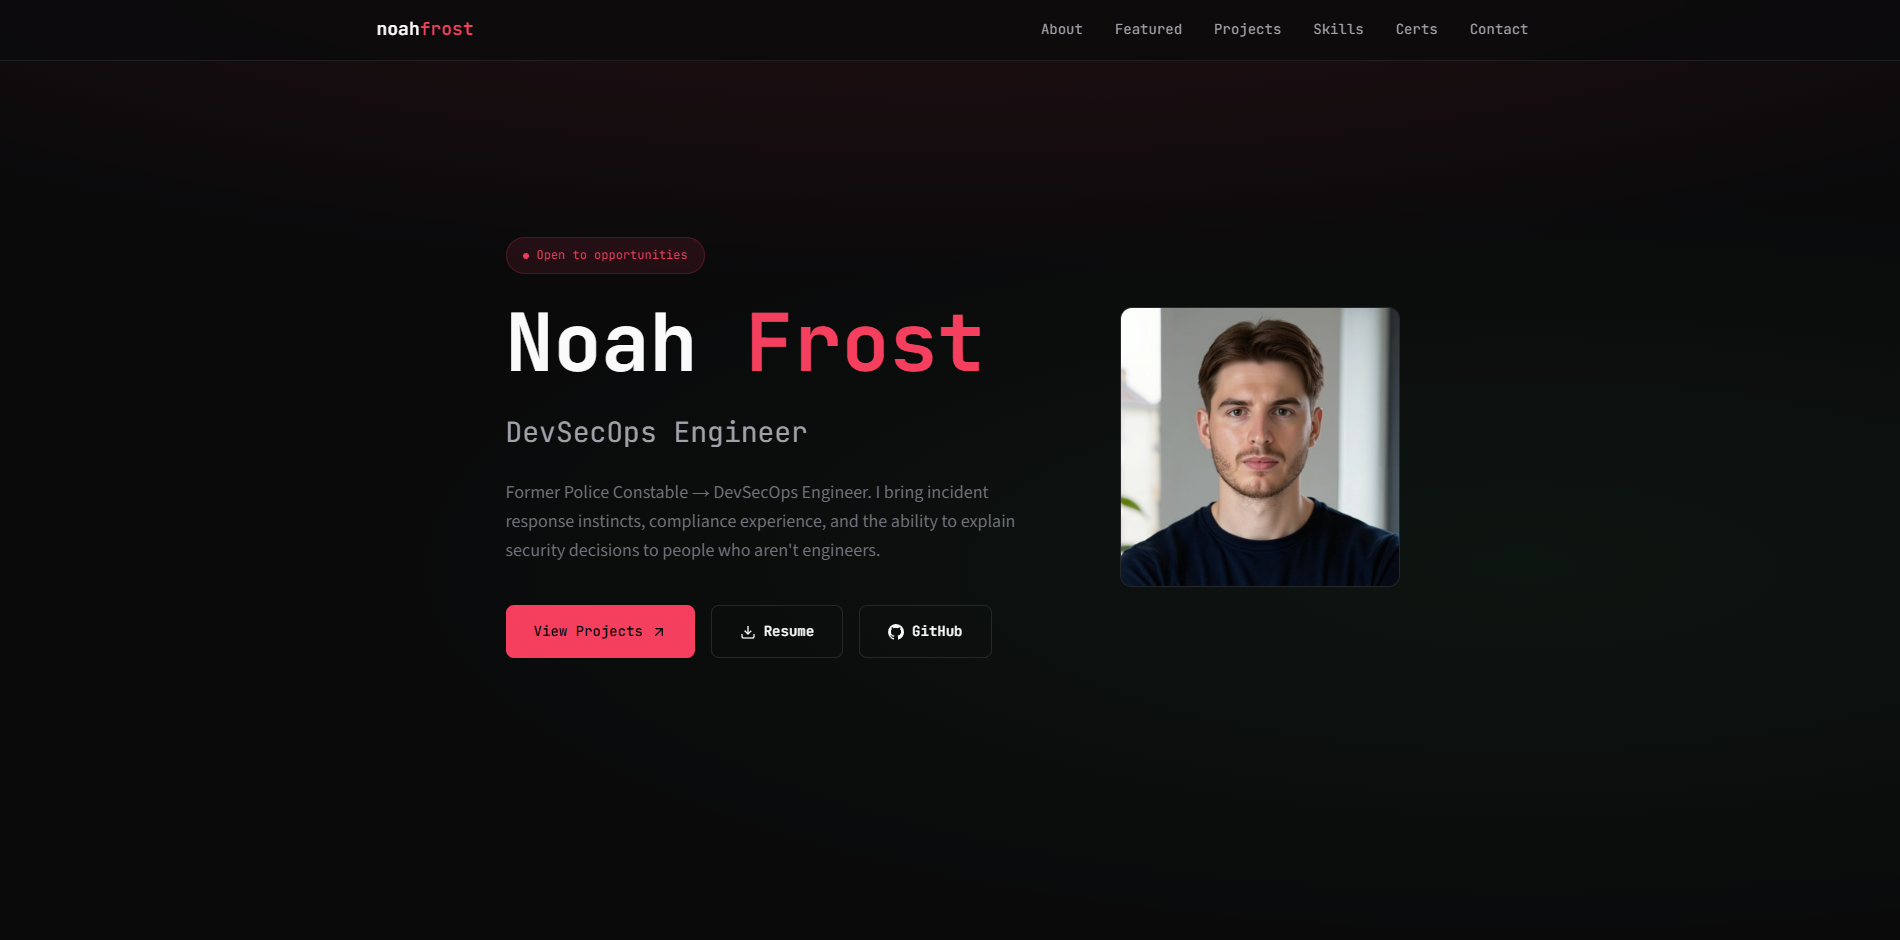
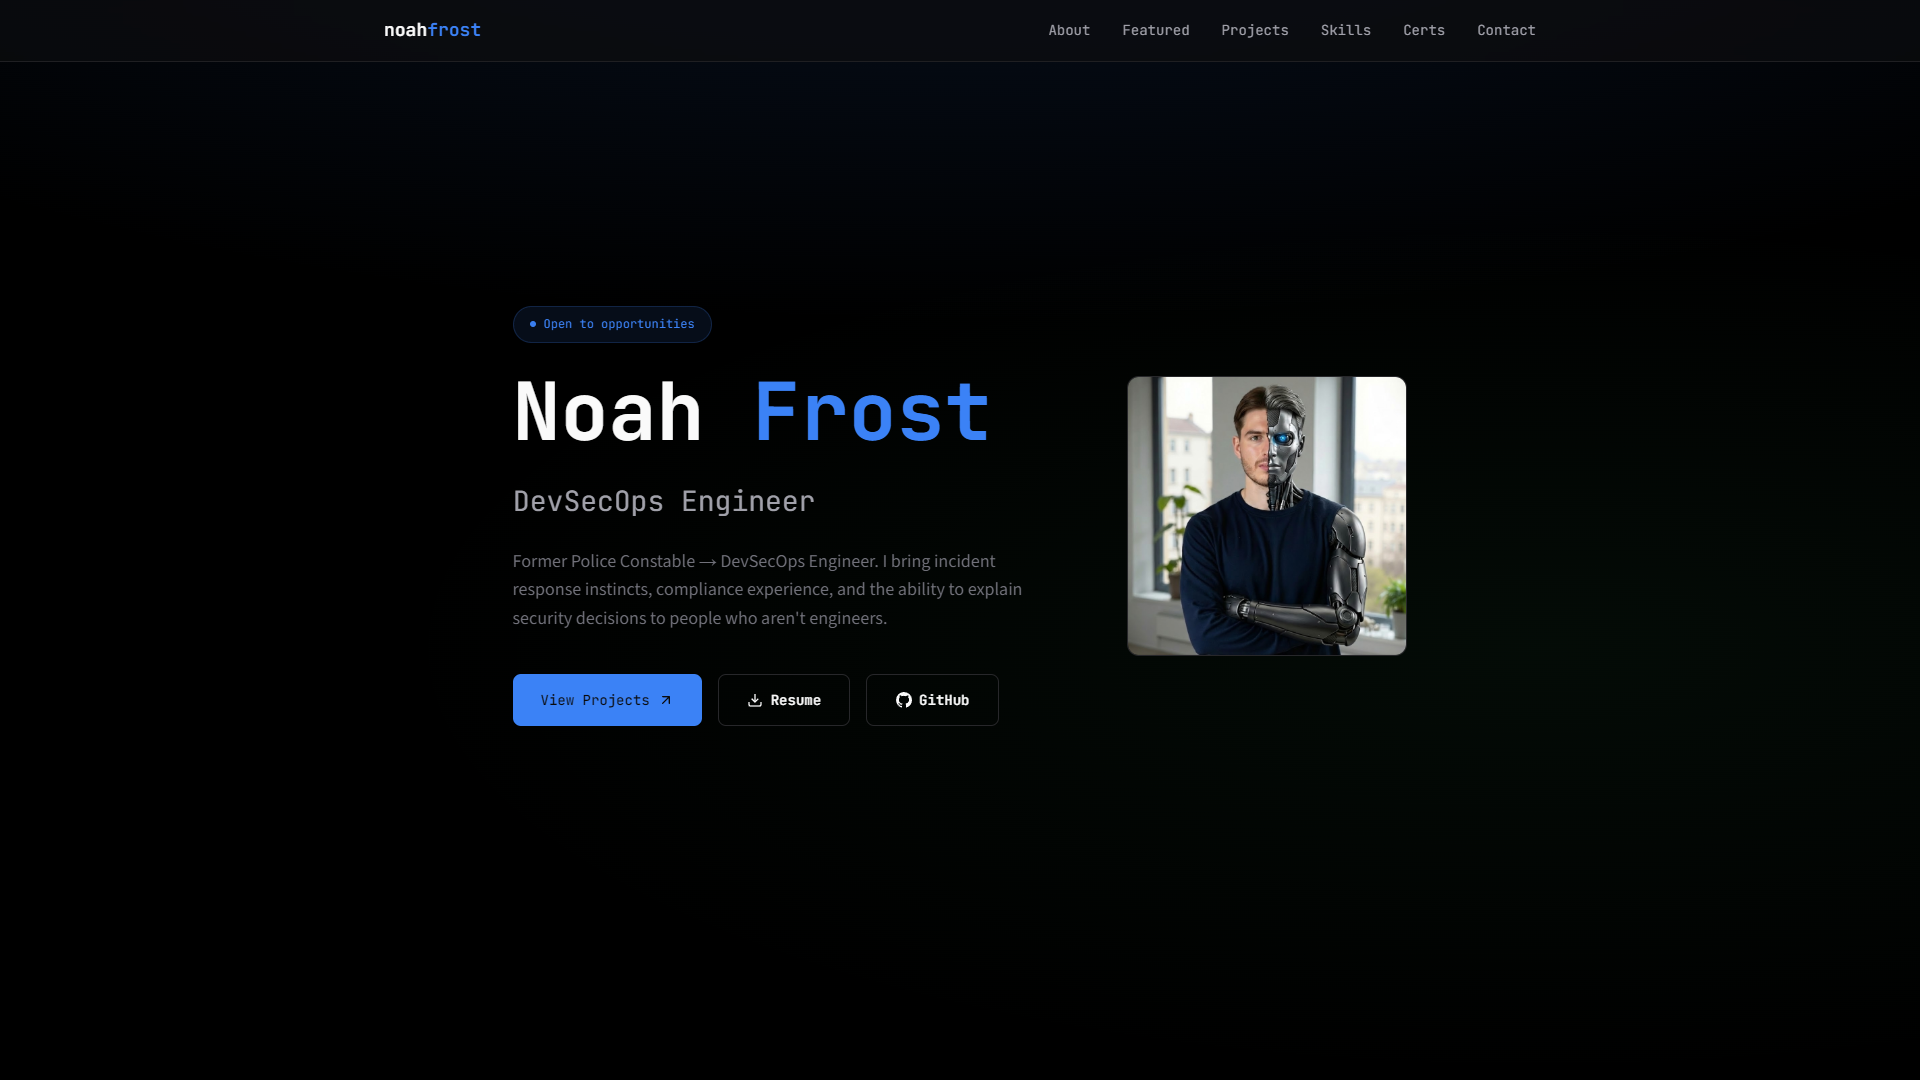
Update

diff --git a/README.md b/README.md
@@ -1,43 +1,44 @@
-# Portfolio CI/CD Pipeline
+# Portfolio CI CD Pipeline
 
-Automated deployment pipeline that publishes portfolio updates to a globally distributed CDN within minutes of committing code — the same pattern used by production static sites serving millions of users.
+Automated deployment pipeline that builds, ships, and serves a portfolio website on AWS — a working example of infrastructure-as-code and CI/CD for static site delivery.
 
 ## Overview
 
-This project implements a complete CI/CD pipeline for a static portfolio website. When changes are pushed to the main branch, GitHub Actions automatically syncs files to S3 and invalidates the CloudFront cache, ensuring visitors see the latest content without manual intervention.
+Every push to `main` triggers a GitHub Actions workflow that syncs site assets to S3 and invalidates the CloudFront cache, delivering updates to a custom domain within minutes. There's no manual upload, no clicking through the AWS console — commit and it's live.
 
-The infrastructure follows AWS best practices for static site hosting: S3 for origin storage, CloudFront for global edge caching with HTTPS enforcement, and Route 53 for DNS with both IPv4 and IPv6 support. All infrastructure is defined in Terraform, making the entire stack reproducible and version-controlled.
+The infrastructure is defined entirely in Terraform: an S3 bucket configured for static website hosting, a CloudFront distribution handling TLS termination and global caching, Route53 DNS records pointing the custom domain to CloudFront, and an ACM certificate for HTTPS. The CI/CD pipeline authenticates via IAM credentials stored in GitHub Secrets and handles both the file sync and cache invalidation in a single workflow run.
 
-This approach eliminates the operational overhead of traditional web servers while providing enterprise-grade performance and availability through AWS's global edge network.
+This is a deliberately simple project, but it reflects how production static sites are actually delivered — infrastructure defined in code, deployments automated through CI/CD, and DNS/TLS/CDN configured correctly from the start rather than bolted on later.
 
 ## Architecture
 
-![Cloud Architecture](screenshots/cloud-architecture.png)
+![](screenshots/cloud-architecture.png)
 
-Requests flow through the system as follows: users access the custom domain via Route 53, which routes to CloudFront. CloudFront serves cached content from edge locations worldwide, falling back to the S3 origin when cache misses occur. The CI/CD pipeline operates independently — on each push, GitHub Actions uploads changed files to S3 and triggers a cache invalidation to propagate updates globally.
+The request flow runs left to right: DNS resolution through Route53 directs traffic to a CloudFront distribution, which serves cached content from an S3 origin bucket. CloudFront handles TLS termination using an ACM certificate and enforces HTTPS by redirecting all HTTP requests.
 
-The Terraform configuration manages the S3 bucket with website hosting enabled, CloudFront distribution with custom SSL certificate, and Route 53 hosted zone with A and AAAA alias records pointing to CloudFront.
+The deployment flow runs separately: GitHub Actions checks out the repository, authenticates to AWS, syncs files to S3 (excluding infrastructure and CI/CD config), then invalidates the CloudFront cache so changes propagate globally.
 
 ## Tech Stack
 
-**Infrastructure**: AWS S3, CloudFront, Route 53, ACM (SSL/TLS)  
-**CI/CD**: GitHub Actions  
-**IaC**: Terraform  
-**Frontend**: HTML, CSS, JavaScript
+**Infrastructure**: AWS S3, CloudFront, Route53, ACM — all provisioned via Terraform
+
+**CI/CD**: GitHub Actions workflow triggered on push to `main`, scoped to content file changes only
+
+**Hosting**: S3 static website hosting with CloudFront CDN and custom domain (noahfrost.co.uk)
 
 ## Key Decisions
 
-- **CloudFront with S3 website endpoint (not S3 REST API)**: Using the S3 website endpoint as a custom origin allows proper handling of index documents and error pages, rather than the more limited S3 REST API origin which doesn't support website hosting features.
+- **Terraform over ClickOps**: Every AWS resource is defined in code and version-controlled. Infrastructure can be reviewed in PRs, reproduced in other accounts, and torn down cleanly — no console drift.
 
-- **Path-based cache invalidation on every deploy**: Rather than waiting for TTL expiration or using versioned filenames, the pipeline invalidates `/*` to ensure immediate content updates. For a portfolio site with infrequent updates, the invalidation cost is negligible compared to the complexity of asset versioning.
+- **CloudFront custom origin over S3 OAC**: Using the S3 website endpoint as a custom origin rather than a private bucket with Origin Access Control. This keeps the S3 website configuration features (index document routing) while CloudFront handles TLS and caching.
 
-- **Redirect HTTP to HTTPS at the edge**: CloudFront's `redirect-to-https` viewer protocol policy enforces secure connections without requiring application-level redirects, simplifying the static site while meeting security best practices.
+- **Path-scoped workflow triggers**: The GitHub Actions workflow only fires when content files change (`index.html`, images, PDF), not on Terraform or CI/CD config changes. This avoids unnecessary deployments and keeps S3 syncs predictable.
 
-- **Selective file sync with exclusions**: The deploy workflow explicitly excludes infrastructure code, screenshots, and documentation from S3, keeping the production bucket clean and reducing sync time.
+- **Cache invalidation as a deployment step**: Rather than relying on TTL expiry, the pipeline explicitly invalidates CloudFront's cache after every deploy, ensuring visitors see changes within minutes rather than waiting up to 24 hours.
 
 ## Screenshots
 
-![Website](screenshots/website.png)
+![](screenshots/website.png)
 
 ## Author
 
